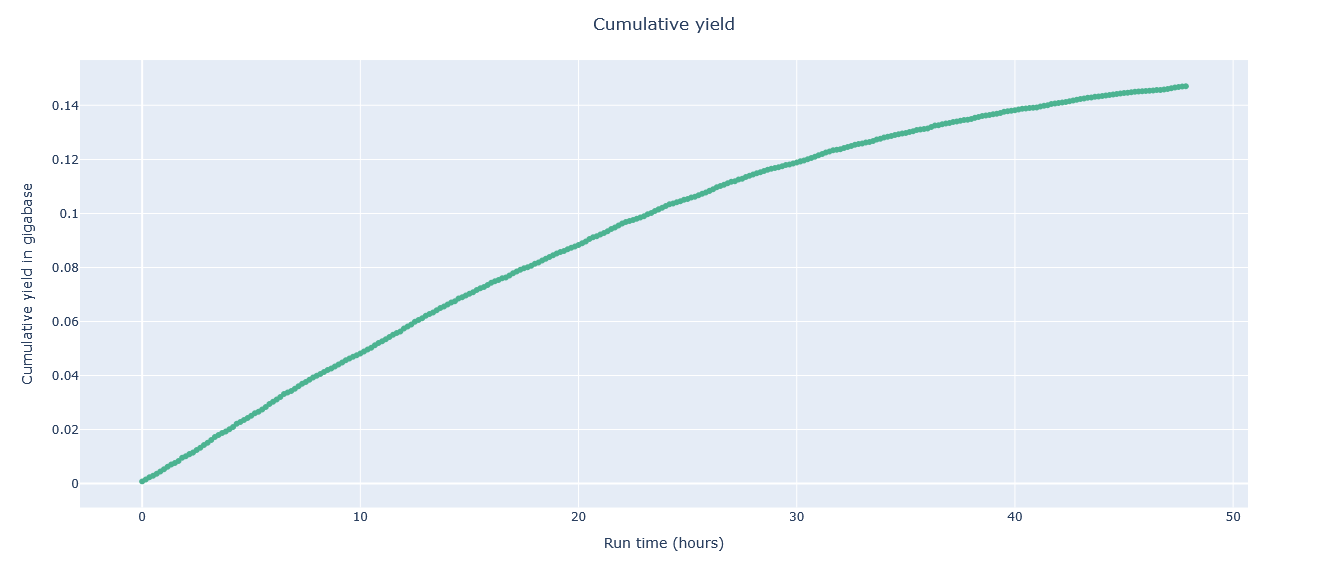
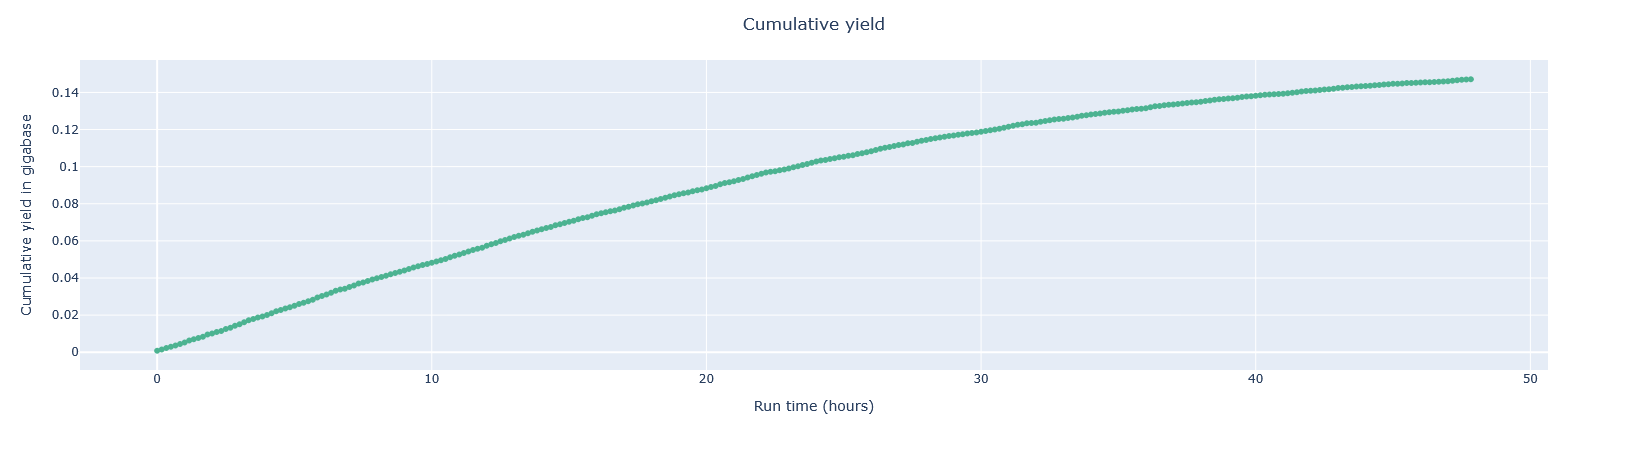
Updates to 02 and 03

Changed region(s): [[0.0, 0.0933, 0.9571, 0.9333], [0.4322, 0.0311, 0.5557, 0.0622]]

diff --git a/docs/03.preprocess.md b/docs/03.preprocess.md
@@ -237,23 +237,66 @@ Run Filtlong, FastQC, NanoPlot, and MultiQC following the steps below:
     mkdir -p read_qc/nanoplot/filtered
     mkdir -p filtered
     ```
+    
+    Here's what your folder structure should look like once you're done:
+
+    ```
+    filtered/
+    read_qc/
+    ├── fastqc/
+    │   ├── filtered/
+    │   └── raw/
+    └── nanoplot/
+        ├── filtered/
+        └── raw/
+    ```
 
 2. Run Filtlong on your raw FASTQ file to keep only reads longer than 1 kb and target 150 Mb of the best-scoring sequence (keep length and quality equally weighted) — roughly 30x coverage, assuming a ~5 Mb bacterial genome. Save the output as `<sample>.filtered.fastq.gz` inside the `filtered/` directory you just created.
+
+    ??? success "Solution"
+        ```bash
+        # EDIT THIS LINE: replace with the path to your sample FASTQ file
+        input_fastq=/path/to/your/sample.fastq.gz
+
+        # Derive a clean sample ID from the file name
+        sample_id=$(basename "$input_fastq")
+        sample_id=${sample_id%.fastq.gz}
+        filtered_fastq="filtered/${sample_id}.filtered.fastq.gz"
+
+        # Filter to 150 Mb of the best-scoring reads (~30x coverage of a 5 Mb genome), minimum length of 1kb
+        filtlong --min_length 1kb --target_bases 150mb "$input_fastq" | gzip > "$filtered_fastq"
+        ```
+
 3. Run NanoPlot and FastQC on the filtered file — the same commands as the Quality control module, just with the output folder changed from `raw` to `filtered`.
-4. Run MultiQC on the combined `read_qc` folder (which now holds both `raw/`, from that earlier module, and the `filtered/` results you just generated) to compare the before/after quality statistics side by side.
 
-Here's what your folder structure should look like once you're done:
+    ??? success "Solution"
+        ```bash
+        # NanoPlot for this sample
+        NanoPlot \
+            --fastq "$filtered_fastq" \
+            -p "${sample_id}_filtered_" \
+            --loglength \
+            --N50 \
+            -o read_qc/nanoplot/filtered/
 
-```
-filtered/
-read_qc/
-├── fastqc/
-│   ├── filtered/
-│   └── raw/
-└── nanoplot/
-    ├── filtered/
-    └── raw/
-```
+        # FastQC for this sample
+        fastqc \
+            -f fastq \
+            -o read_qc/fastqc/filtered/ \
+            "$filtered_fastq"
+        ```
+
+4. Run MultiQC on the combined `read_qc` folder to compare the before/after quality statistics side by side.
+
+    ??? success "Solution"
+        ```bash
+        # MultiQC report for raw and filtered reads
+        multiqc \
+            -o read_qc \
+            -f \
+            --fullnames \
+            read_qc
+        ```
 
 !!! question "Answer the following questions"
     1. What is the number of reads before and after filtering? How did that change?
@@ -261,52 +304,6 @@ read_qc/
     3. What is the median length and N50 before and after filtering? How did that change?
 
 ??? success "Solution"
-    The following command will:
-    - filter the reads by keeping only long reads longer than 1 kb and targeting 150 Mb of the best-scoring sequence (~30x coverage of a 5 Mb genome)
-    - run FastQC and NanoPlot on the filtered reads
-    - run MultiQC on all the quality control reports for raw and filtered reads
-
-    ```bash
-    # EDIT THIS LINE: replace with the path to your sample FASTQ file
-    input_fastq=/path/to/your/sample.fastq.gz
-
-    # Create the top-level output directories
-    mkdir -p read_qc/fastqc/filtered
-    mkdir -p read_qc/nanoplot/filtered
-    mkdir -p filtered
-
-    # Derive a clean sample ID from the file name
-    sample_id=$(basename "$input_fastq")
-    sample_id=${sample_id%.fastq.gz}
-    filtered_fastq="filtered/${sample_id}.filtered.fastq.gz"
-
-    # Filter to 150 Mb of the best-scoring reads (~30x coverage of a 5 Mb genome), minimum length of 1kb
-    filtlong --min_length 1kb --target_bases 150mb "$input_fastq" | gzip > "$filtered_fastq"
-
-    # NanoPlot output for this sample
-    NanoPlot \
-        --fastq "$filtered_fastq" \
-        -p "${sample_id}_filtered_" \
-        --loglength \
-        --N50 \
-        -o read_qc/nanoplot/filtered/
-
-    # FastQC output for this sample
-    fastqc \
-        -f fastq \
-        -o read_qc/fastqc/filtered/ \
-        "$filtered_fastq"
-
-    # MultiQC report for raw and filtered reads (read_qc now holds both,
-    # since the Quality control module's exercise wrote raw/ into the
-    # same tree)
-    multiqc \
-        -o read_qc \
-        -f \
-        --fullnames \
-        read_qc
-    ```
-
     Answers will vary depending on which sample you were assigned. Reference values on three of the samples used in this training, before and after filtering:
 
     Raw vs. filtered (`--min_length 1kb --target_bases 150mb`):
